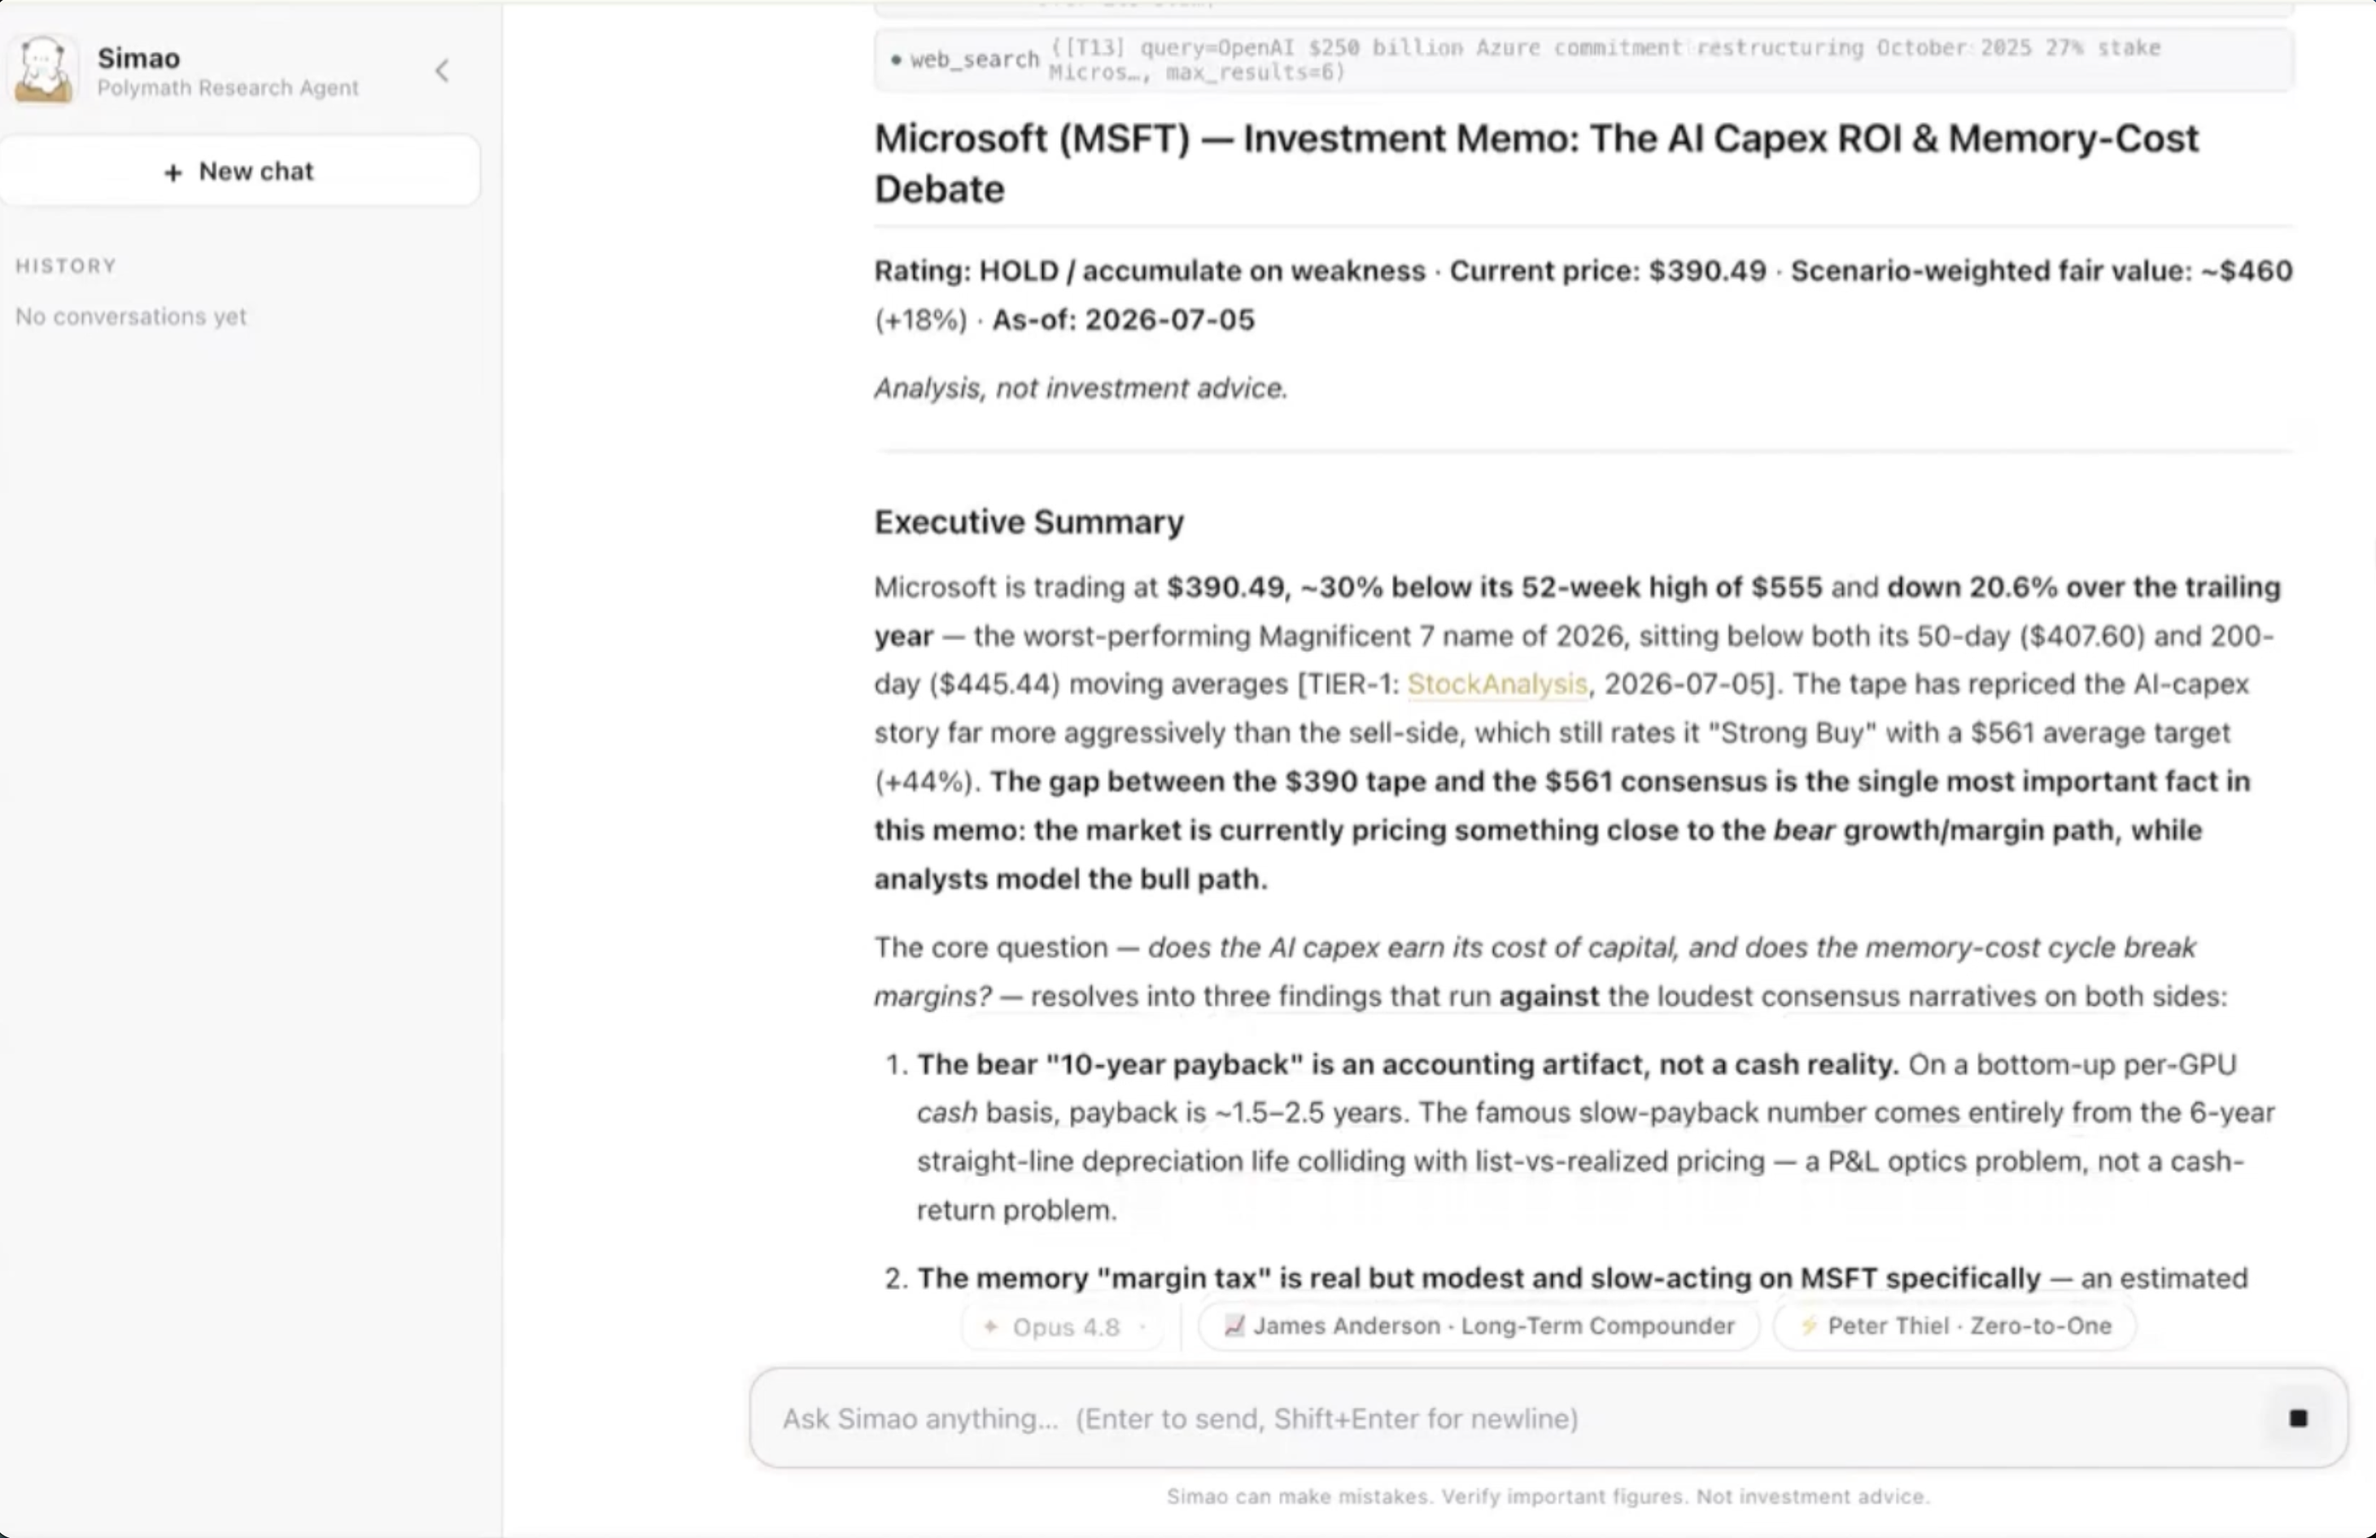
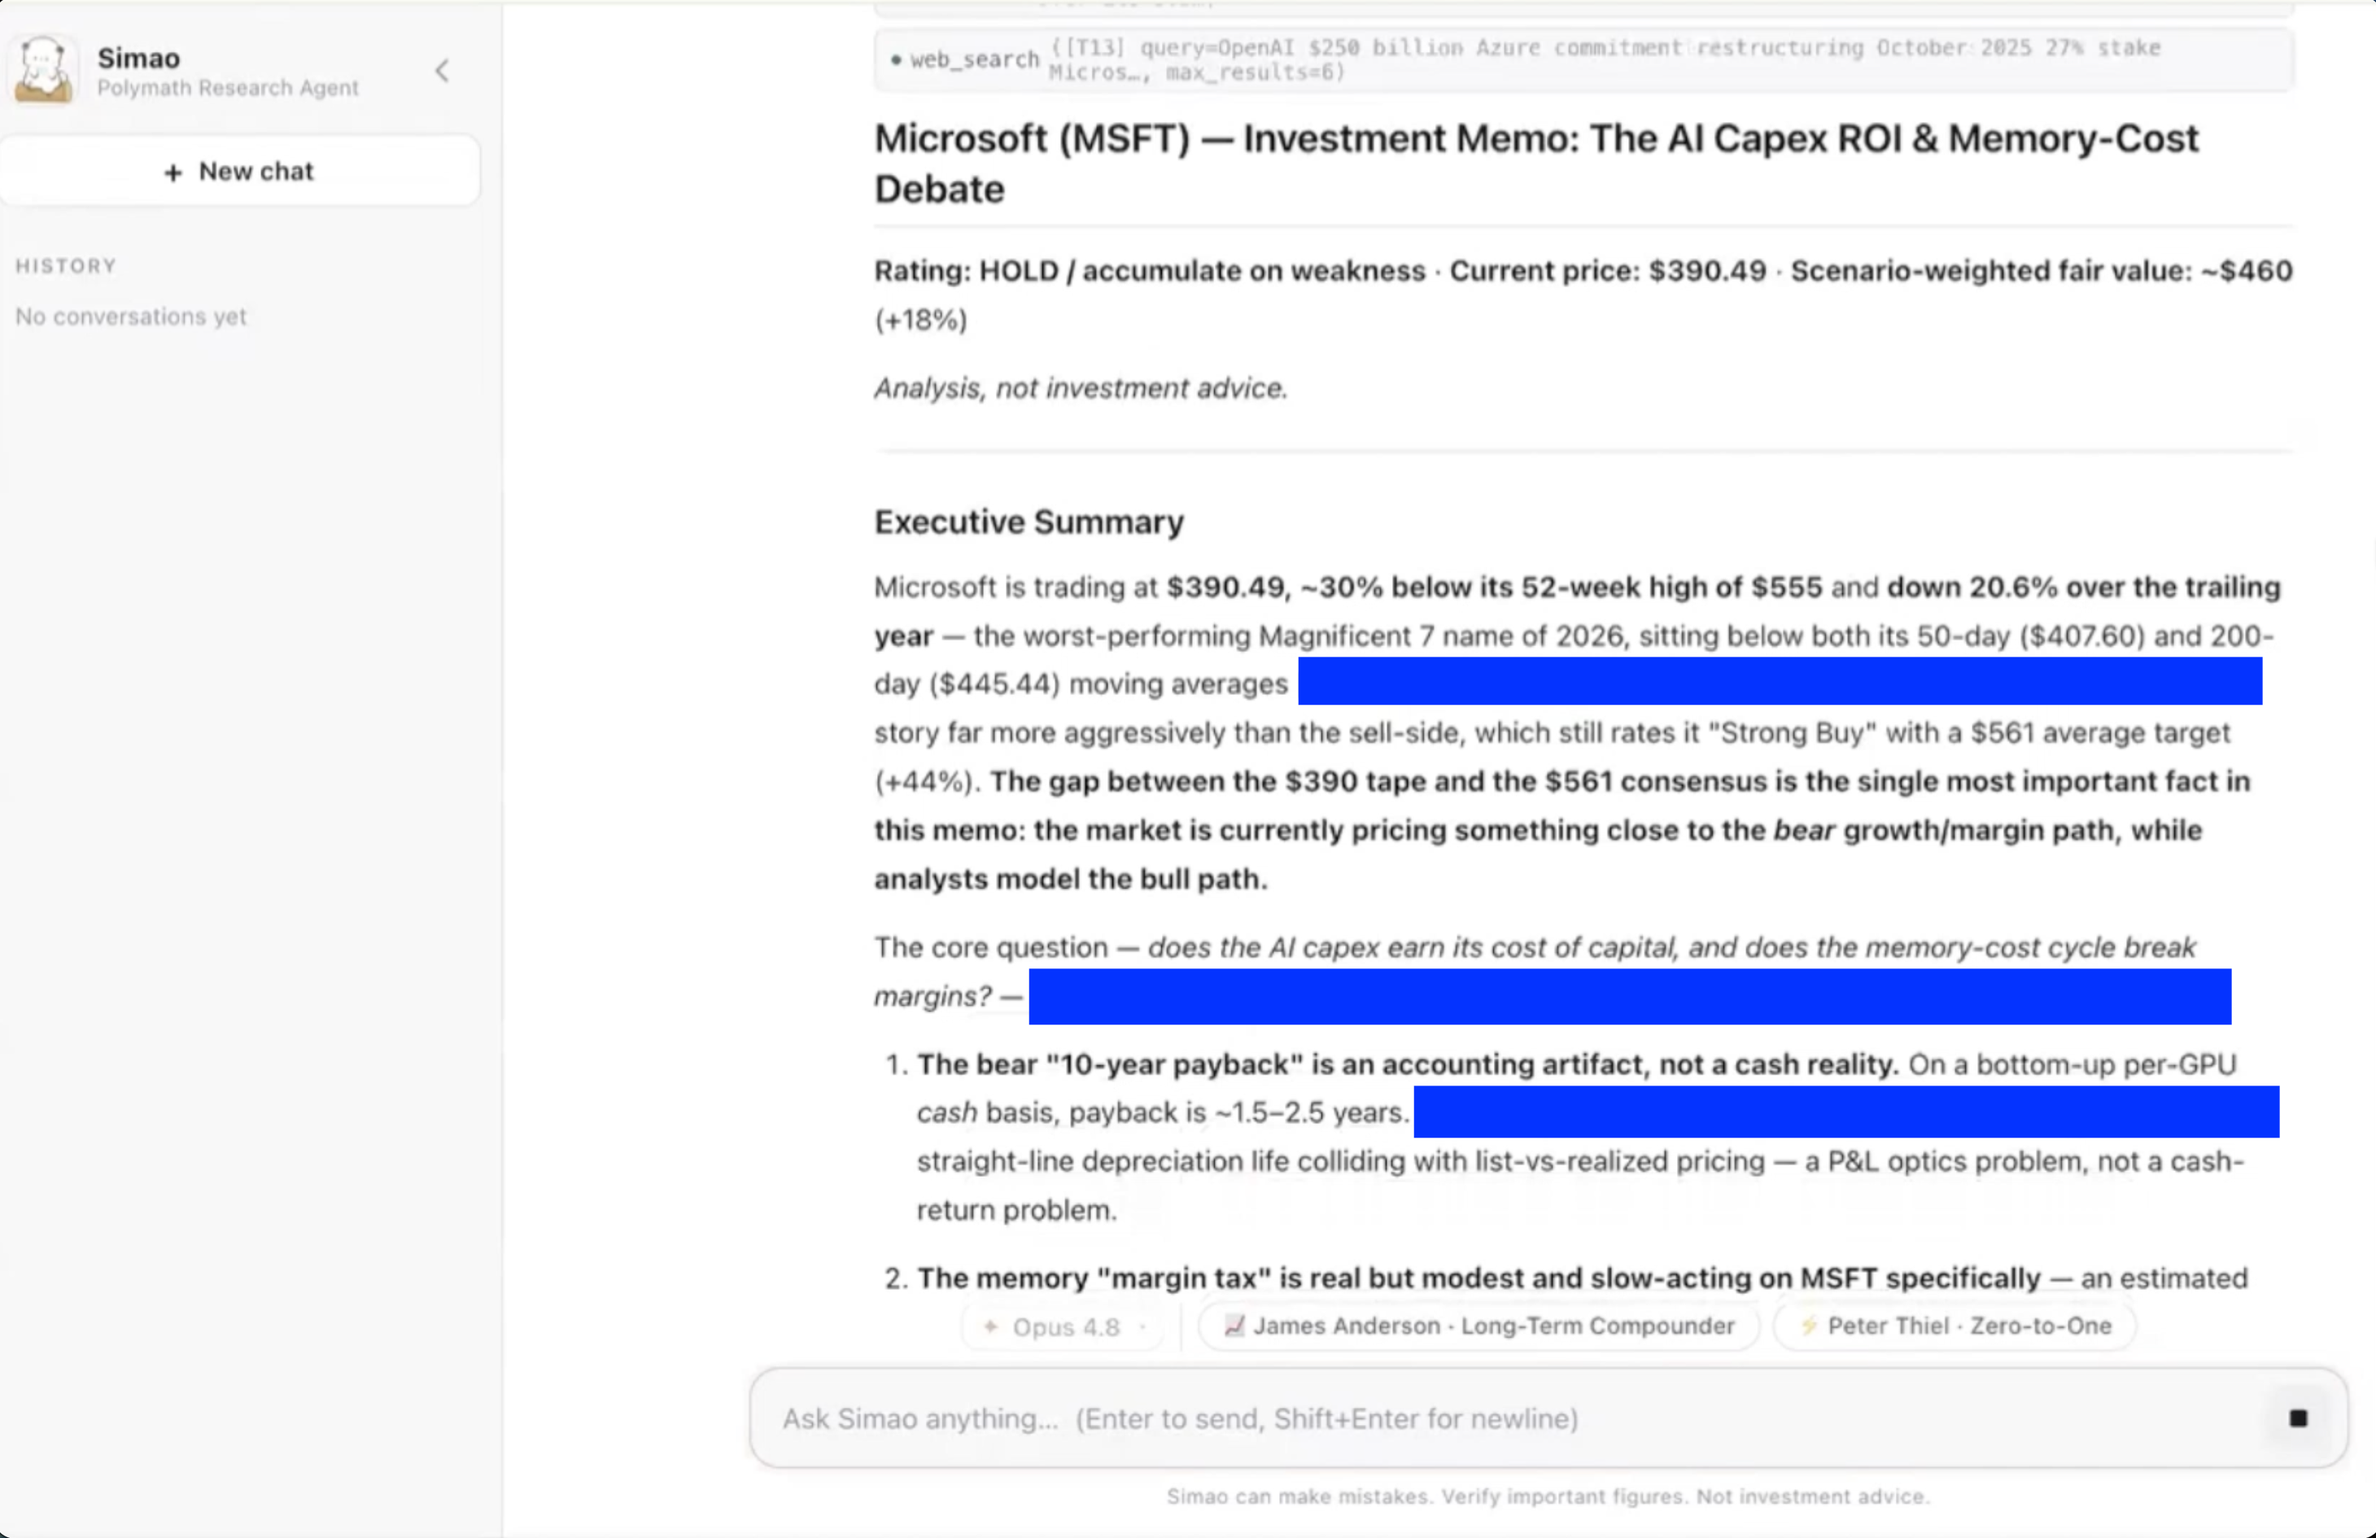
Redact private client data in Agent 3 screenshot and note redaction

Changed region(s): [[0.4363, 0.6243, 0.9661, 0.7492], [0.5298, 0.4058, 0.9661, 0.4683], [0.4051, 0.1873, 0.5298, 0.2185]]

diff --git a/index.html b/index.html
@@ -257,7 +257,7 @@
     <section id="demo">
       <h2>7. Demo</h2>
       <div class="prose">
-        <p>Tamarix Research is live in production at <a href="https://tamarixresearch.com/">tamarixresearch.com</a>, actively serving three investment teams. Because the live workspace hosts confidential client queries, custom crawlers, and proprietary research lenses, we cannot share guest credentials. Instead we provide two recorded videos. Simao 1 and Simao 2 share the same user interface, so one product demo is enough. A second video is the full project presentation: the architecture walkthrough plus the demo. Below the video links, live product screenshots walk through the agent workflow, the client workspace, bespoke sector data feeds, and Simao 2 in client production.</p>
+        <p>Tamarix Research is live in production at <a href="https://tamarixresearch.com/">tamarixresearch.com</a>, actively serving three investment teams. Because the live workspace hosts confidential client queries, custom crawlers, and proprietary research lenses, we cannot share guest credentials. Instead we provide two recorded videos. Simao 1 and Simao 2 share the same user interface, so one product demo is enough. A second video is the full project presentation: the architecture walkthrough plus the demo. Below the video links, live product screenshots walk through the agent workflow, the client workspace, bespoke sector data feeds, and Simao 2 in client production. Where a generated memo references private client data, those passages are redacted in blue.</p>
       </div>
       <ul class="demo-links">
         <li><strong>Simao 1 demo video</strong> (same user interface as Simao 2) <span class="pending" id="demo-video-url">URL to be added</span></li>
@@ -280,10 +280,10 @@
       </figure>
 
       <figure class="demo-shot" id="fig-demo-agent-3">
-        <a class="shot-link" href="figures/demo/agent-3.png" target="_blank" rel="noopener">
-          <img src="figures/demo/agent-3.png" width="2920" height="1890" loading="lazy" alt="Completed Microsoft investment memo showing Hold rating, $460 scenario-weighted fair value, and GPU payback analysis.">
+        <a class="shot-link" href="figures/demo/agent-3.png?v=2" target="_blank" rel="noopener">
+          <img src="figures/demo/agent-3.png?v=2" width="2920" height="1890" loading="lazy" alt="Completed Microsoft investment memo showing Hold rating, $460 scenario-weighted fair value, GPU payback analysis, and blue redaction bars masking private client data.">
         </a>
-        <figcaption><strong>Figure 8.</strong> Step 3 — Output: Microsoft memo with a variant GPU-payback view and $460 fair value.</figcaption>
+        <figcaption><strong>Figure 8.</strong> Step 3 — Output: Microsoft variant memo ($460 fair value; private client data redacted).</figcaption>
       </figure>
 
       <h3>7.2 Client workspace dashboard</h3>
